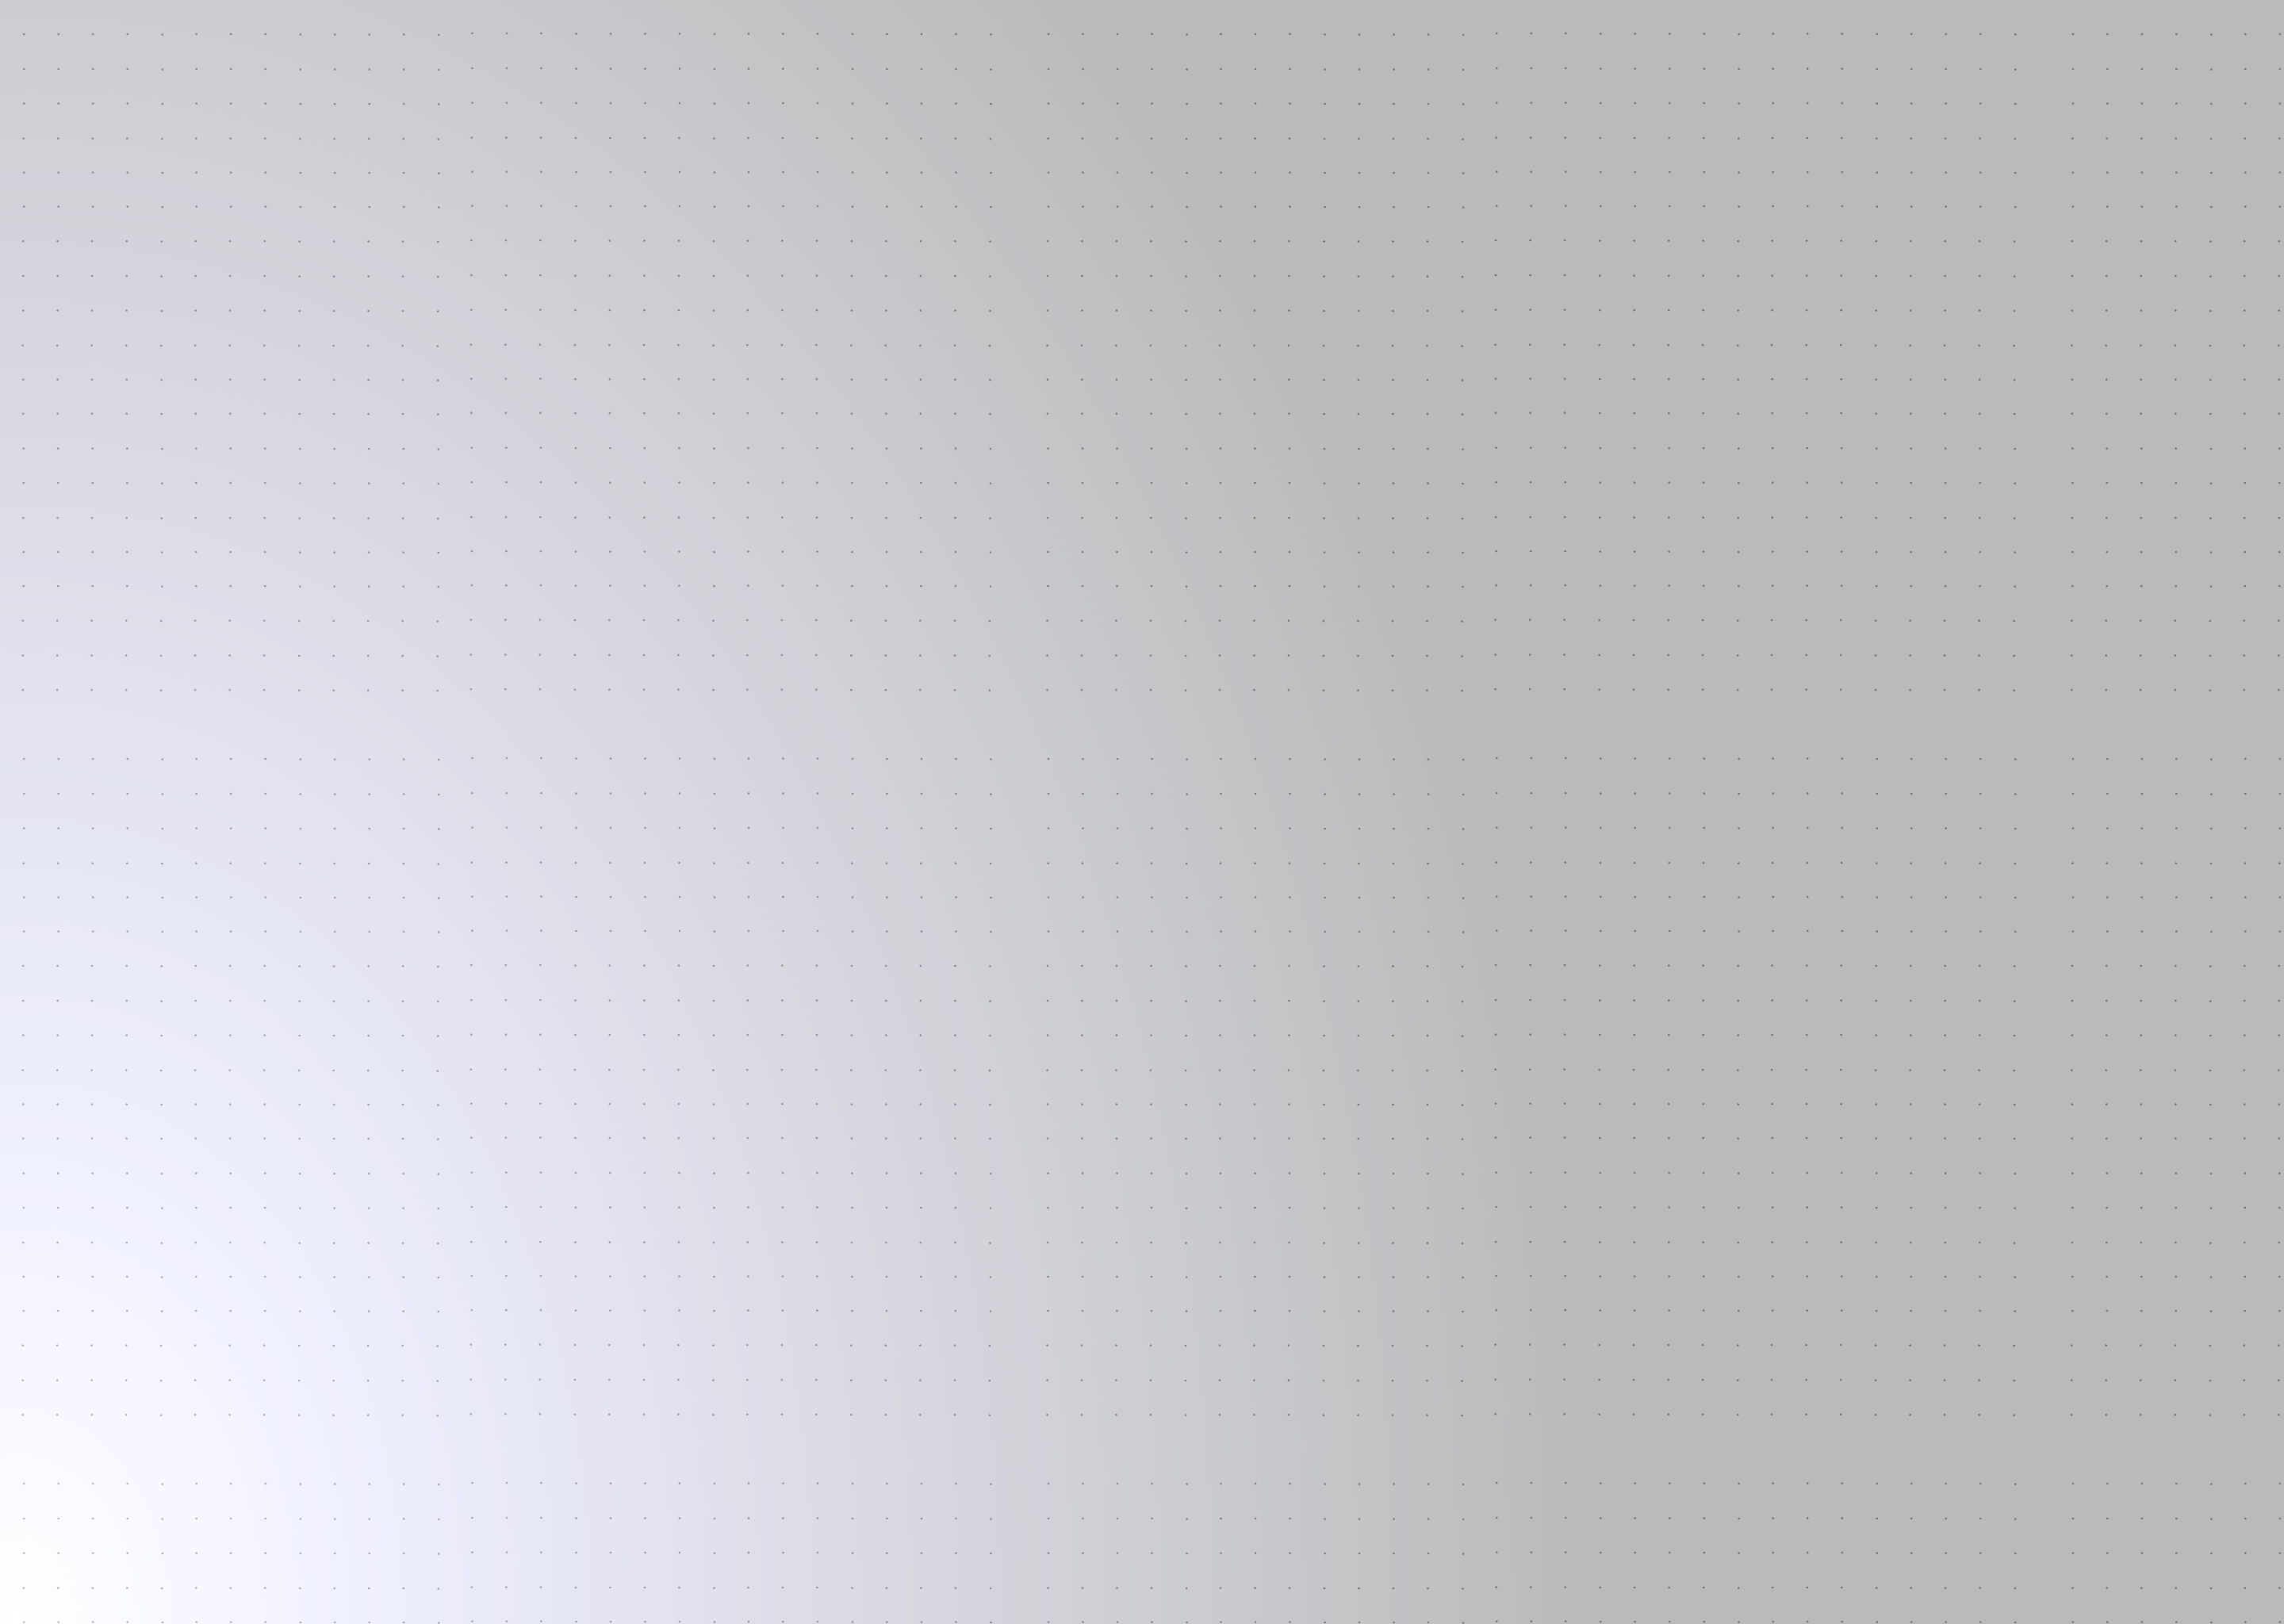
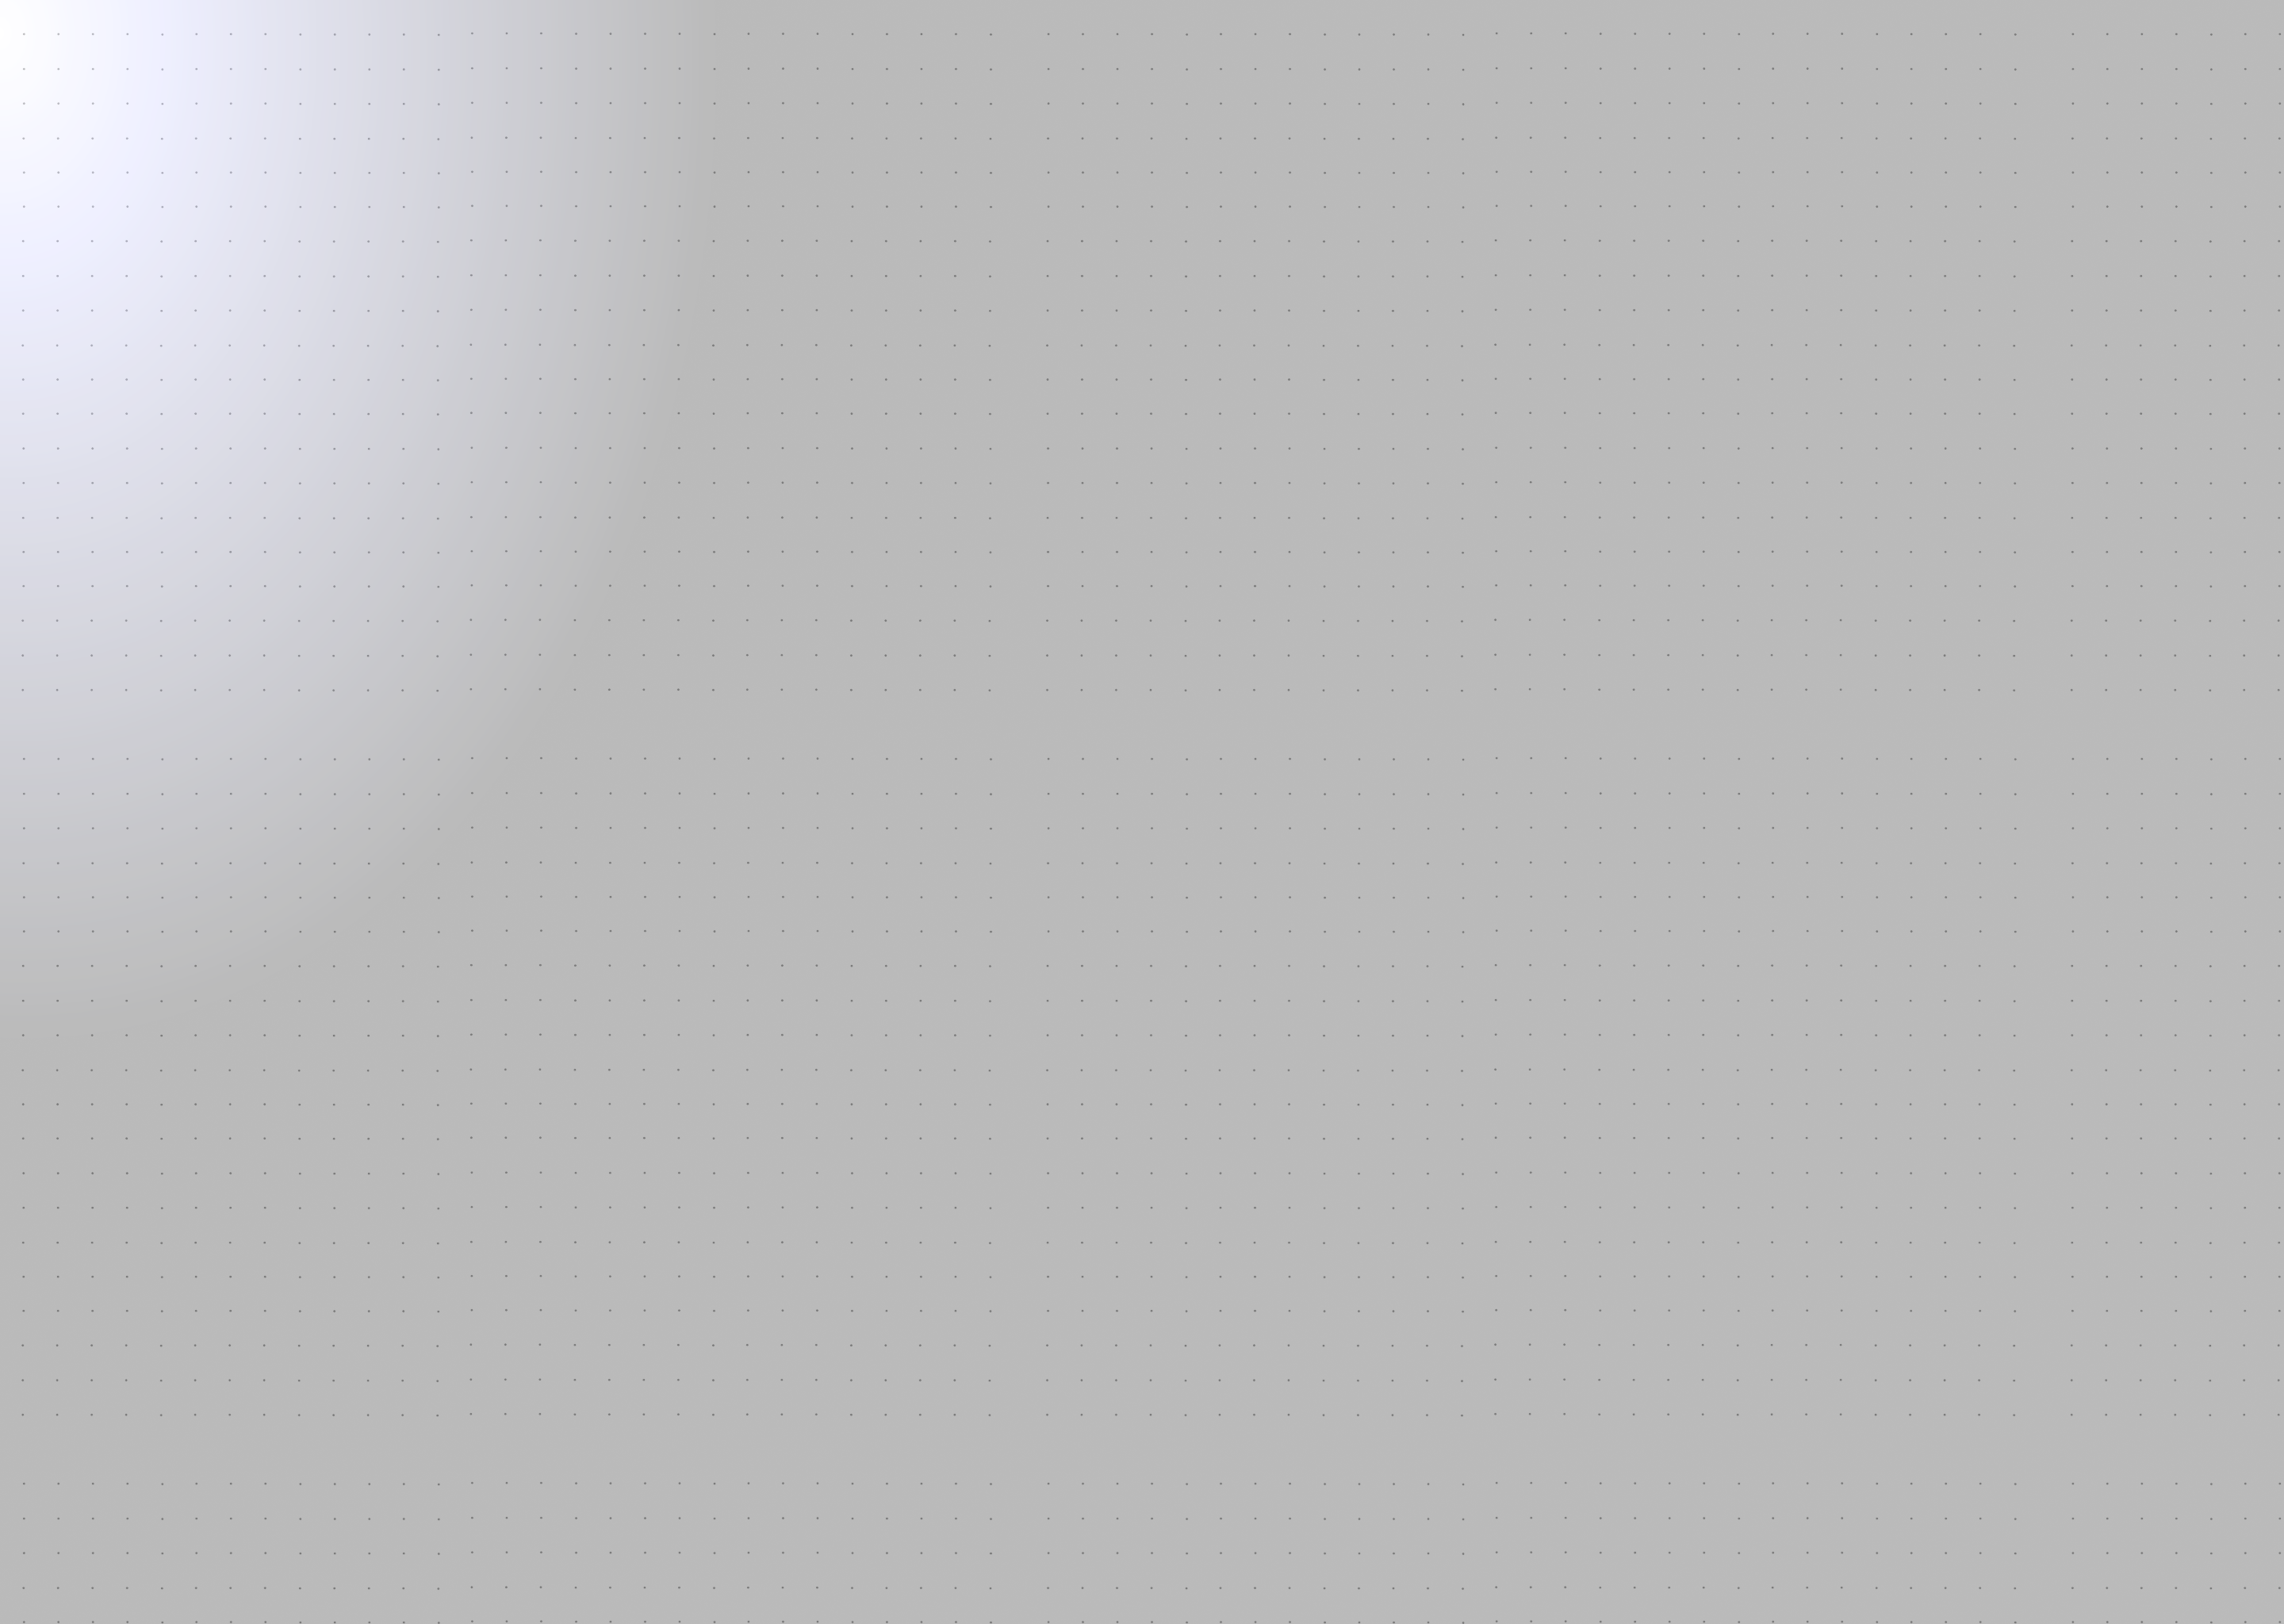
Adding font and background changes, adding lists

diff --git a/css/tailwind.css b/css/tailwind.css
@@ -4,12 +4,23 @@
 @source '../node_modules/pliny';
 @custom-variant dark (&:where(.dark, .dark *));
 
+@font-face {
+  font-family: 'Departure Mono';
+  src:
+    url('/static/fonts/DepartureMono-Regular.woff2') format('woff2'),
+    url('/static/fonts/DepartureMono-Regular.otf') format('opentype');
+  font-weight: 400;
+  font-style: normal;
+  font-display: swap;
+}
+
 /* Core theme configuration */
 @theme {
   /* Font families */
   --font-sans:
     var(--font-exo), ui-sans-serif, system-ui, sans-serif, 'Apple Color Emoji', 'Segoe UI Emoji',
     'Segoe UI Symbol', 'Noto Color Emoji';
+  --font-display: 'Departure Mono', ui-monospace, SFMono-Regular, Menlo, monospace;
 
   /* Colors */
   /* Copied from https://tailwindcss.com/docs/theme#default-theme-variable-reference */
@@ -61,6 +72,10 @@
   color utility to any element that depends on these defaults.
 */
 @layer base {
+  h3 {
+    font-family: var(--font-display);
+  }
+
   html:not(.dark) body {
     background-image: url('/static/images/lightmode.bg.png');
     background-size: cover;

diff --git a/data/siteMetadata.js b/data/siteMetadata.js
@@ -1,8 +1,8 @@
 /** @type {import("pliny/config").PlinyConfig } */
 const siteMetadata = {
-  title: 'codingiswhyicry',
+  title: 'amanda southworth',
   author: 'Amanda Southworth',
-  headerTitle: 'codingiswhyicry',
+  headerTitle: 'amanda southworth | trying to build software that can save your life',
   description: 'Trying to build software that can save your life.',
   language: 'en-us',
   theme: 'dark', // system, dark or light